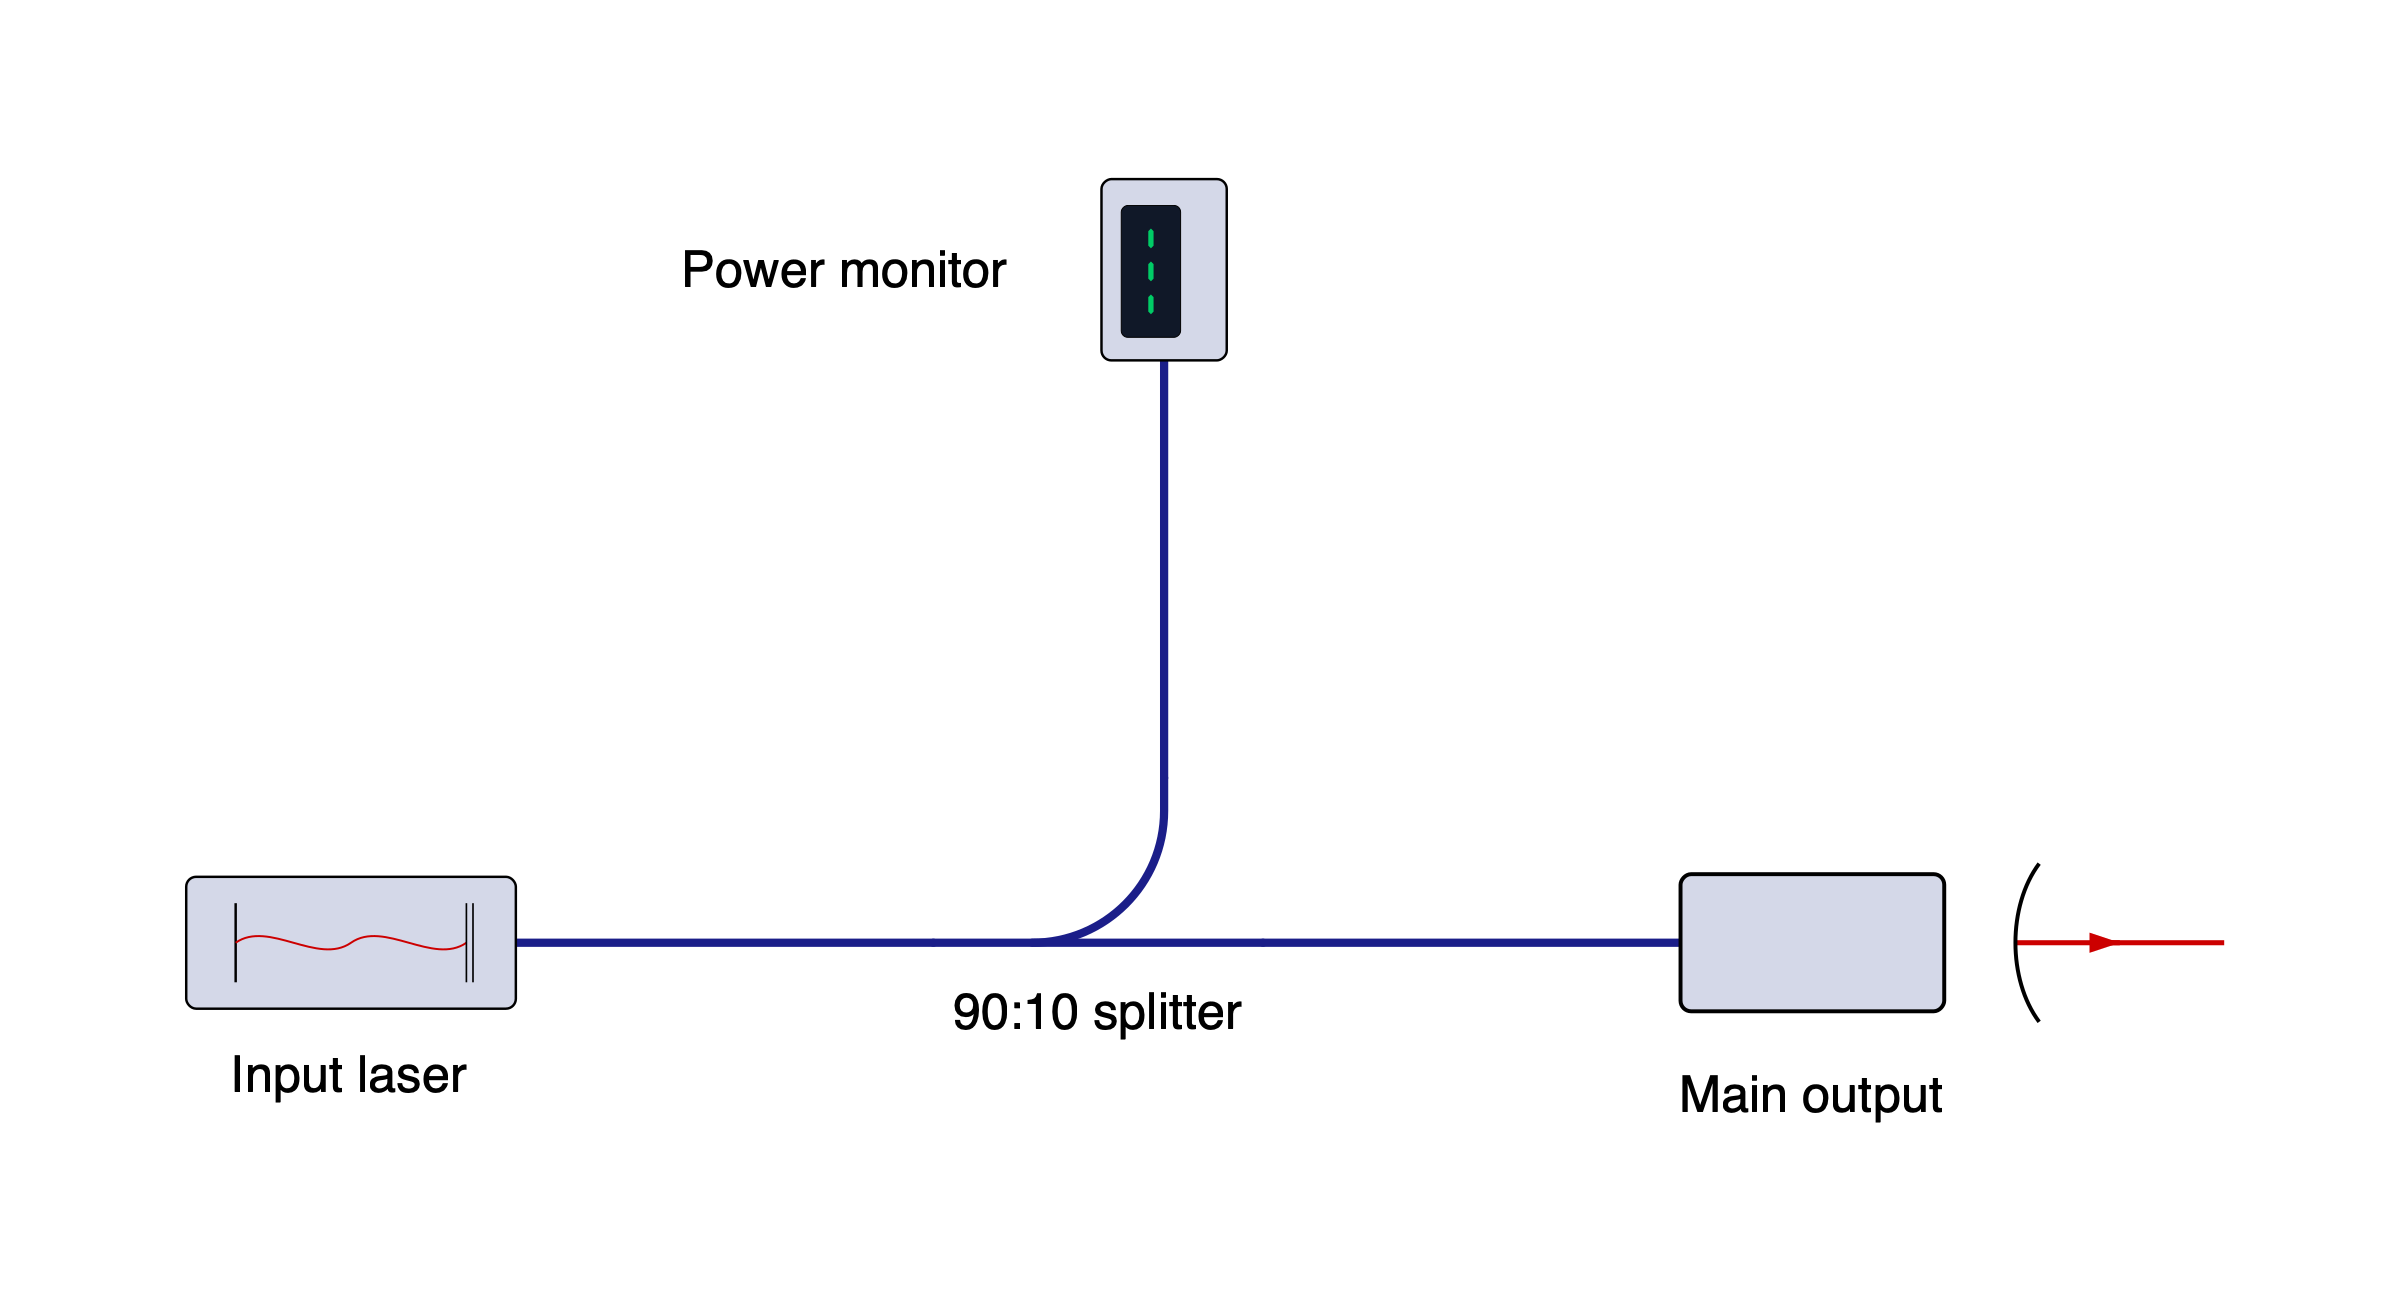
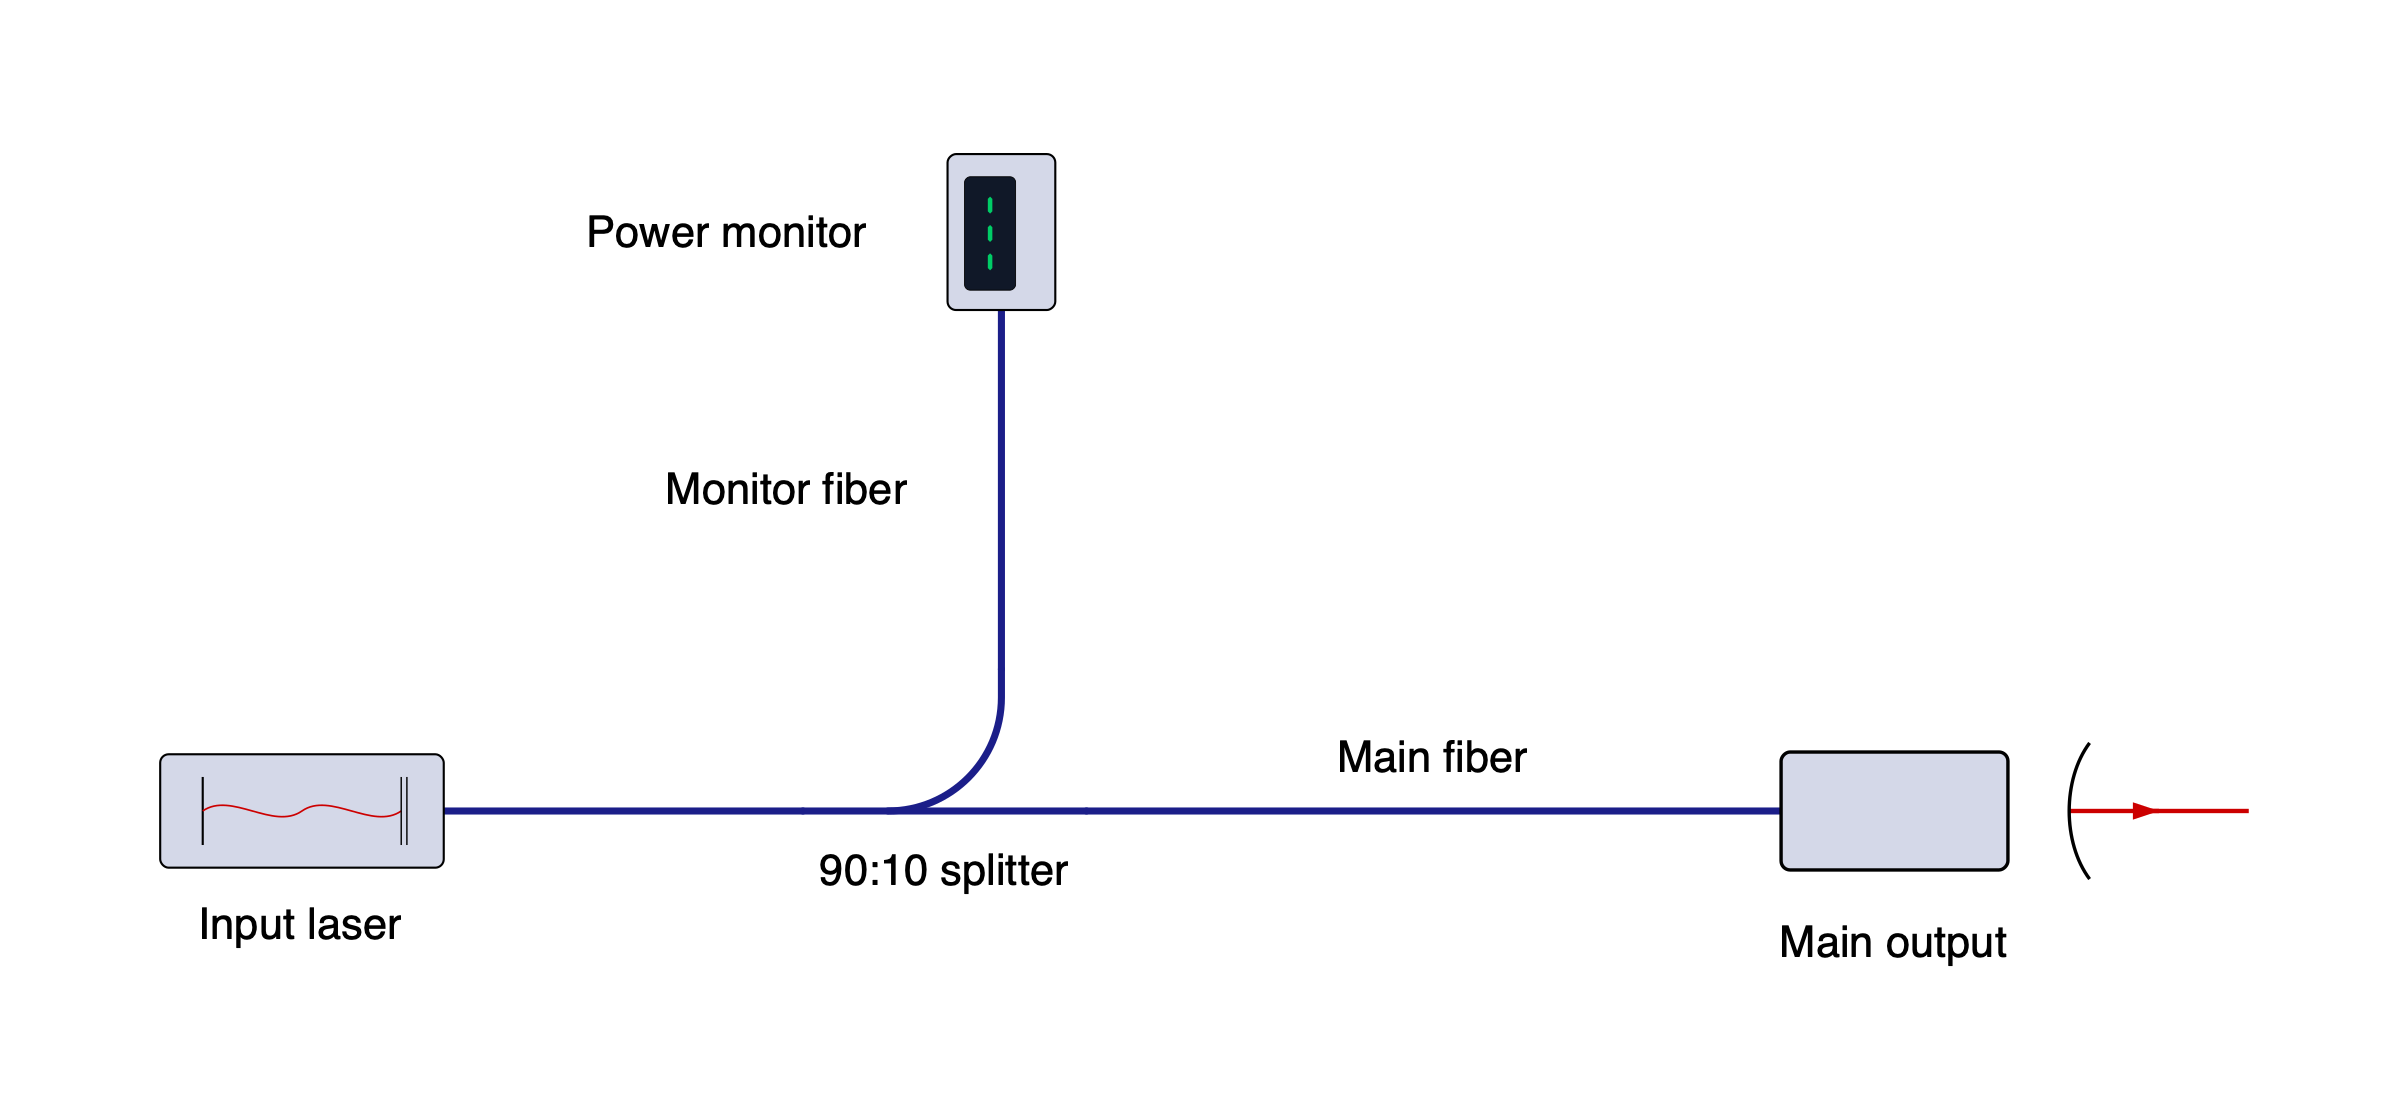
Label representative beam and fiber demo paths

diff --git a/examples/franson.py b/examples/franson.py
@@ -2,7 +2,7 @@
 
 from beampath.components import beam_block, beamsplitter, detector, laser, mirror, spdc
 
-setup = laser("CW pump") >> spdc(opening_angle=60)
+setup = laser("CW pump") >> "Pump" >> spdc(opening_angle=60)
 setup.out("pump") >> beam_block("Pump dump")
 
 # Mirror the analyzers about the pump axis. Each straight short arm has length
@@ -12,11 +12,11 @@ for channel, suffix, outward, inward, return_heading in (
     ("signal", "s", "left", "right", "south"),
     ("idler", "i", "right", "left", "north"),
 ):
-    incoming = setup.out(channel).append(mirror("", heading="east"), distance=700)
+    incoming = (setup.out(channel) >> channel.capitalize()).append(mirror("", heading="east"), distance=700)
     split = incoming >> beamsplitter(f"{channel.capitalize()}\n50:50", turn=outward)
-    short = split.straight()
-    long = split.reflect().append(mirror(f"Long {suffix}\nPZT phase φ{suffix}", heading="east"),
-                                  distance=300)
+    short = split.straight() >> "Short arm"
+    long = (split.reflect() >> "Long arm").append(
+        mirror(f"Long {suffix}\nPZT phase φ{suffix}", heading="east"), distance=300)
     long.append(mirror("", heading=return_heading), distance=600)
     combined = short.join(long, beamsplitter("50:50", turn=inward))
     combined.straight() >> detector(f"D{suffix}+")

diff --git a/examples/hom.py b/examples/hom.py
@@ -11,11 +11,11 @@ Based on [Hong, Ou, and Mandel (1987)](https://doi.org/10.1103/PhysRevLett.59.20
 
 from beampath.components import bandpass_filter, beam_block, beamsplitter, detector, laser, mirror, spdc
 
-setup = laser("Pump") >> spdc("SPDC\nDegenerate", opening_angle=60)
+setup = laser("Pump") >> "Pump" >> spdc("SPDC\nDegenerate", opening_angle=60)
 setup.out("pump") >> beam_block("Pump dump")
 
-signal = setup.out("signal") >> bandpass_filter("Matched filter") >> mirror("", heading="east")
-idler = setup.out("idler") >> bandpass_filter("Matched filter") >> mirror("Delay τ", heading="north")
+signal = setup.out("signal") >> "Signal" >> bandpass_filter("Matched filter") >> mirror("", heading="east")
+idler = setup.out("idler") >> "Idler" >> bandpass_filter("Matched filter") >> mirror("Delay τ", heading="north")
 combined = signal.join(idler, beamsplitter("50:50", turn="left"))
 combined.straight() >> detector("D1")
 combined.reflect() >> detector("D2")

diff --git a/examples/mzi.py b/examples/mzi.py
@@ -1,10 +1,11 @@
 """A Mach–Zehnder interferometer with a shared recombining beamsplitter."""
 
+from beampath import label
 from beampath.components import *
 
 setup = laser() >> beamsplitter("NPBS1", turn="left")
-lower = setup.straight() >> HWP() >> mirror(heading="north")
-upper = setup.reflect() >> mirror(heading="east") >> HWP()
+lower = setup.straight() >> label("Lower arm") >> HWP() >> mirror(heading="north")
+upper = setup.reflect() >> "Upper arm" >> mirror(heading="east") >> HWP()
 combined = lower.join(upper, beamsplitter("NPBS2", turn="right"))
 combined.reflect() >> detector()
 combined.straight() >> detector()

diff --git a/examples/mixed_fiber.py b/examples/mixed_fiber.py
@@ -1,12 +1,16 @@
 """A laser and inline power monitors surrounding a free-space waveplate."""
 
+from beampath import label
 from beampath.components import *
 
 setup = (
     fiber_laser("Tunable laser")
+    >> label("Input fiber")
     >> inline_power_meter("Input power")
     >> fiber_launch()
+    >> "Free-space"
     >> HWP()
     >> fiber_coupler()
+    >> "Output fiber"
     >> inline_power_meter("Output power")
 )

diff --git a/examples/spdc.py b/examples/spdc.py
@@ -2,7 +2,7 @@
 
 from beampath.components import *
 
-setup = laser("Pump input") >> spdc()
+setup = laser("Pump input") >> "Pump" >> spdc()
 setup.out("pump") >> beam_block("Transmitted pump")
-setup.out("signal") >> fiber_coupler("Signal")
-setup.out("idler") >> fiber_coupler("Idler")
+setup.out("signal") >> "Signal" >> fiber_coupler()
+setup.out("idler") >> "Idler" >> fiber_coupler()

diff --git a/examples/fiber_splitter.py b/examples/fiber_splitter.py
@@ -3,5 +3,5 @@
 from beampath.components import *
 
 setup = fiber_laser("Input laser") >> fiber_splitter("90:10 splitter", turn="left")
-setup.straight() >> fiber_launch("Main output")
-setup.turn() >> fiber_power_meter("Power monitor")
+setup.straight() >> "Main fiber" >> fiber_launch("Main output")
+setup.turn() >> "Monitor fiber" >> fiber_power_meter("Power monitor")

diff --git a/docs/gallery.md b/docs/gallery.md
@@ -124,8 +124,8 @@ A straight-through fiber output with a perpendicular power-monitor branch.
 from beampath.components import *
 
 setup = fiber_laser("Input laser") >> fiber_splitter("90:10 splitter", turn="left")
-setup.straight() >> fiber_launch("Main output")
-setup.turn() >> fiber_power_meter("Power monitor")
+setup.straight() >> "Main fiber" >> fiber_launch("Main output")
+setup.turn() >> "Monitor fiber" >> fiber_power_meter("Power monitor")
 
 setup.save("fiber_splitter.svg")
 ```
@@ -141,7 +141,7 @@ A Franson interferometer with SPDC and two matched unequal-arm analyzers.
 ```python
 from beampath.components import beam_block, beamsplitter, detector, laser, mirror, spdc
 
-setup = laser("CW pump") >> spdc(opening_angle=60)
+setup = laser("CW pump") >> "Pump" >> spdc(opening_angle=60)
 setup.out("pump") >> beam_block("Pump dump")
 
 # Mirror the analyzers about the pump axis. Each straight short arm has length
@@ -151,11 +151,11 @@ for channel, suffix, outward, inward, return_heading in (
     ("signal", "s", "left", "right", "south"),
     ("idler", "i", "right", "left", "north"),
 ):
-    incoming = setup.out(channel).append(mirror("", heading="east"), distance=700)
+    incoming = (setup.out(channel) >> channel.capitalize()).append(mirror("", heading="east"), distance=700)
     split = incoming >> beamsplitter(f"{channel.capitalize()}\n50:50", turn=outward)
-    short = split.straight()
-    long = split.reflect().append(mirror(f"Long {suffix}\nPZT phase φ{suffix}", heading="east"),
-                                  distance=300)
+    short = split.straight() >> "Short arm"
+    long = (split.reflect() >> "Long arm").append(
+        mirror(f"Long {suffix}\nPZT phase φ{suffix}", heading="east"), distance=300)
     long.append(mirror("", heading=return_heading), distance=600)
     combined = short.join(long, beamsplitter("50:50", turn=inward))
     combined.straight() >> detector(f"D{suffix}+")
@@ -268,11 +268,11 @@ Based on [Hong, Ou, and Mandel (1987)](https://doi.org/10.1103/PhysRevLett.59.20
 ```python
 from beampath.components import bandpass_filter, beam_block, beamsplitter, detector, laser, mirror, spdc
 
-setup = laser("Pump") >> spdc("SPDC\nDegenerate", opening_angle=60)
+setup = laser("Pump") >> "Pump" >> spdc("SPDC\nDegenerate", opening_angle=60)
 setup.out("pump") >> beam_block("Pump dump")
 
-signal = setup.out("signal") >> bandpass_filter("Matched filter") >> mirror("", heading="east")
-idler = setup.out("idler") >> bandpass_filter("Matched filter") >> mirror("Delay τ", heading="north")
+signal = setup.out("signal") >> "Signal" >> bandpass_filter("Matched filter") >> mirror("", heading="east")
+idler = setup.out("idler") >> "Idler" >> bandpass_filter("Matched filter") >> mirror("Delay τ", heading="north")
 combined = signal.join(idler, beamsplitter("50:50", turn="left"))
 combined.straight() >> detector("D1")
 combined.reflect() >> detector("D2")
@@ -306,14 +306,18 @@ A laser and inline power monitors surrounding a free-space waveplate.
 ![mixed_fiber diagram](../examples/images/mixed_fiber.png)
 
 ```python
+from beampath import label
 from beampath.components import *
 
 setup = (
     fiber_laser("Tunable laser")
+    >> label("Input fiber")
     >> inline_power_meter("Input power")
     >> fiber_launch()
+    >> "Free-space"
     >> HWP()
     >> fiber_coupler()
+    >> "Output fiber"
     >> inline_power_meter("Output power")
 )
 
@@ -329,11 +333,12 @@ A Mach–Zehnder interferometer with a shared recombining beamsplitter.
 ![mzi diagram](../examples/images/mzi.png)
 
 ```python
+from beampath import label
 from beampath.components import *
 
 setup = laser() >> beamsplitter("NPBS1", turn="left")
-lower = setup.straight() >> HWP() >> mirror(heading="north")
-upper = setup.reflect() >> mirror(heading="east") >> HWP()
+lower = setup.straight() >> label("Lower arm") >> HWP() >> mirror(heading="north")
+upper = setup.reflect() >> "Upper arm" >> mirror(heading="east") >> HWP()
 combined = lower.join(upper, beamsplitter("NPBS2", turn="right"))
 combined.reflect() >> detector()
 combined.straight() >> detector()
@@ -467,10 +472,10 @@ A generic SPDC crystal with pump, signal, and idler branches.
 ```python
 from beampath.components import *
 
-setup = laser("Pump input") >> spdc()
+setup = laser("Pump input") >> "Pump" >> spdc()
 setup.out("pump") >> beam_block("Transmitted pump")
-setup.out("signal") >> fiber_coupler("Signal")
-setup.out("idler") >> fiber_coupler("Idler")
+setup.out("signal") >> "Signal" >> fiber_coupler()
+setup.out("idler") >> "Idler" >> fiber_coupler()
 
 setup.save("spdc.svg")
 ```
